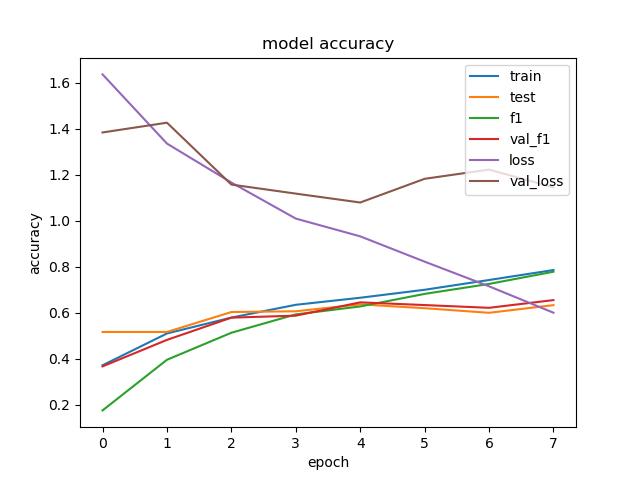
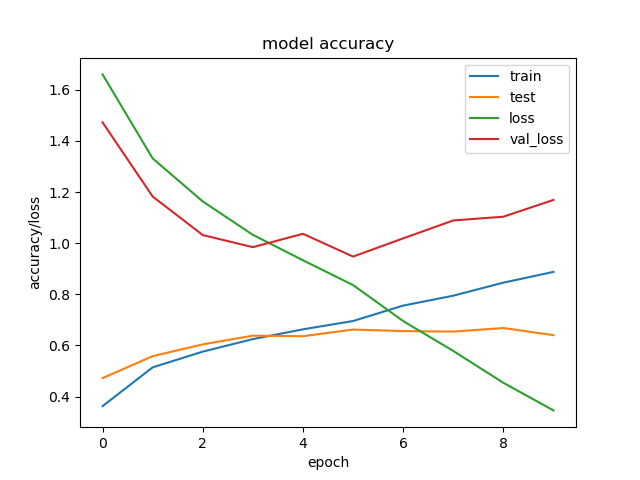
probably my final commit

diff --git a/src/back_end/LSTM.py b/src/back_end/LSTM.py
@@ -1,7 +1,6 @@
 from py_isear.isear_loader import IsearLoader
 import numpy as np
 import itertools
-from preprocess import clean_data
 from sklearn.feature_extraction.text import CountVectorizer, TfidfVectorizer
 from sklearn.model_selection import train_test_split
 from sklearn.preprocessing import OneHotEncoder
@@ -23,14 +22,6 @@ text_data_set = dataset.get_freetext_content()
 target_set = np.asarray(dataset.get_target())
 target_chain = itertools.chain(*target_set)
 target_data = np.asarray(list(target_chain))
-
-#target_data = target_data[np.where(target_data != 5)]
-#target_data = target_data[np.where(target_data != 6)]
-#target_data = target_data[np.where(target_data != 7)]
-
-#text_data_set = text_data_set[np.where(target_data != 5)]
-#text_data_set = text_data_set[np.where(target_data != 6)]
-#text_data_set = text_data_set[np.where(target_data != 7)]
 
 # One-hot encoding of target values
 target_data = np_utils.to_categorical(target_data)
@@ -93,23 +84,6 @@ def f1(y_true, y_pred):
     recall = recall(y_true, y_pred)
     return 2*((precision*recall)/(precision+recall+K.epsilon()))
 
-"""
-import spacy
-
-nlp = spacy.load('en_core_web_md')
- 
-EMBEDDINGS_LEN = len(nlp.vocab['apple'].vector)
-print("EMBEDDINGS_LEN=", EMBEDDINGS_LEN)  # 300
- 
-embeddings_index = np.zeros((len(vectorizer.get_feature_names()) + 1, EMBEDDINGS_LEN))
-for word, idx in word2idx.items():
-    try:
-        embedding = nlp.vocab[word].vector
-        embeddings_index[idx] = embedding
-    except:
-        pass
-"""
-
 #load 550 million tweets trained embedding space 
 GLOVE_PATH = 'data/ntua_twitter_affect_310.txt'
 GLOVE_VECTOR_LENGTH = 310
@@ -142,19 +116,11 @@ from keras.callbacks import ModelCheckpoint, EarlyStopping, ReduceLROnPlateau
 import keras.backend as K
  
 model = Sequential()
-"""
-model.add(Embedding(len(vectorizer.get_feature_names()) + 1,
-                    EMBEDDINGS_LEN,
-                    weights = [embeddings_index],
-                    input_length=MAX_SEQ_LENGTH,
-                    trainable = False))
-"""
 model.add(Embedding(len(vectorizer.get_feature_names()) + 1,
                     GLOVE_VECTOR_LENGTH,  # Embedding size
                     weights=[embeddings_index],
                     input_length=MAX_SEQ_LENGTH,
                     trainable=False))
-#model.add(CuDNNLSTM(EMBEDDINGS_LEN))
 model.add(CuDNNLSTM(GLOVE_VECTOR_LENGTH))
 model.add(Dense(units=7, activation='softmax'))
  
@@ -167,10 +133,10 @@ reduce_lr = ReduceLROnPlateau(monitor='val_loss', factor=0.2,
 early_stop = EarlyStopping(monitor='val_loss', patience = 3)
 
 history = model.fit(X_train_sequences[:-500], y_train[:-500], 
-              epochs=8, batch_size=32, verbose=1, 
+              epochs=10, batch_size=32, verbose=1, 
               validation_data=(X_train_sequences[-500:], y_train[-500:]),
               shuffle = True,
-              callbacks = [checkpointer, reduce_lr, early_stop])
+              callbacks = [checkpointer, reduce_lr, checkpointer])
 
 X_test_sequences = [to_sequence(tokenize, preprocess, word2idx, x) for x in X_test]
 X_test_sequences = pad_sequences(X_test_sequences, maxlen=MAX_SEQ_LENGTH, value=N_FEATURES)
@@ -184,17 +150,15 @@ y_pred = model.predict(X_test_sequences)
 matrix = confusion_matrix(y_test.argmax(axis=1), y_pred.argmax(axis=1))
 
 def plot_train_history_accuracy(history):
-    # summarize history for loss
+    # summarize history for accuracy and loss
     plt.plot(history.history['acc'])
     plt.plot(history.history['val_acc'])
-    plt.plot(history.history['f1'])
-    plt.plot(history.history['val_f1'])
     plt.plot(history.history['loss'])
     plt.plot(history.history['val_loss'])
     plt.title('model accuracy')
-    plt.ylabel('accuracy')
+    plt.ylabel('accuracy/loss')
     plt.xlabel('epoch')
-    plt.legend(['train', 'test', 'f1', 'val_f1', 'loss', 'val_loss'], loc='upper right')
+    plt.legend(['train', 'test', 'loss', 'val_loss'], loc='upper right')
     plt.show()
 
 plot_train_history_accuracy(history)
